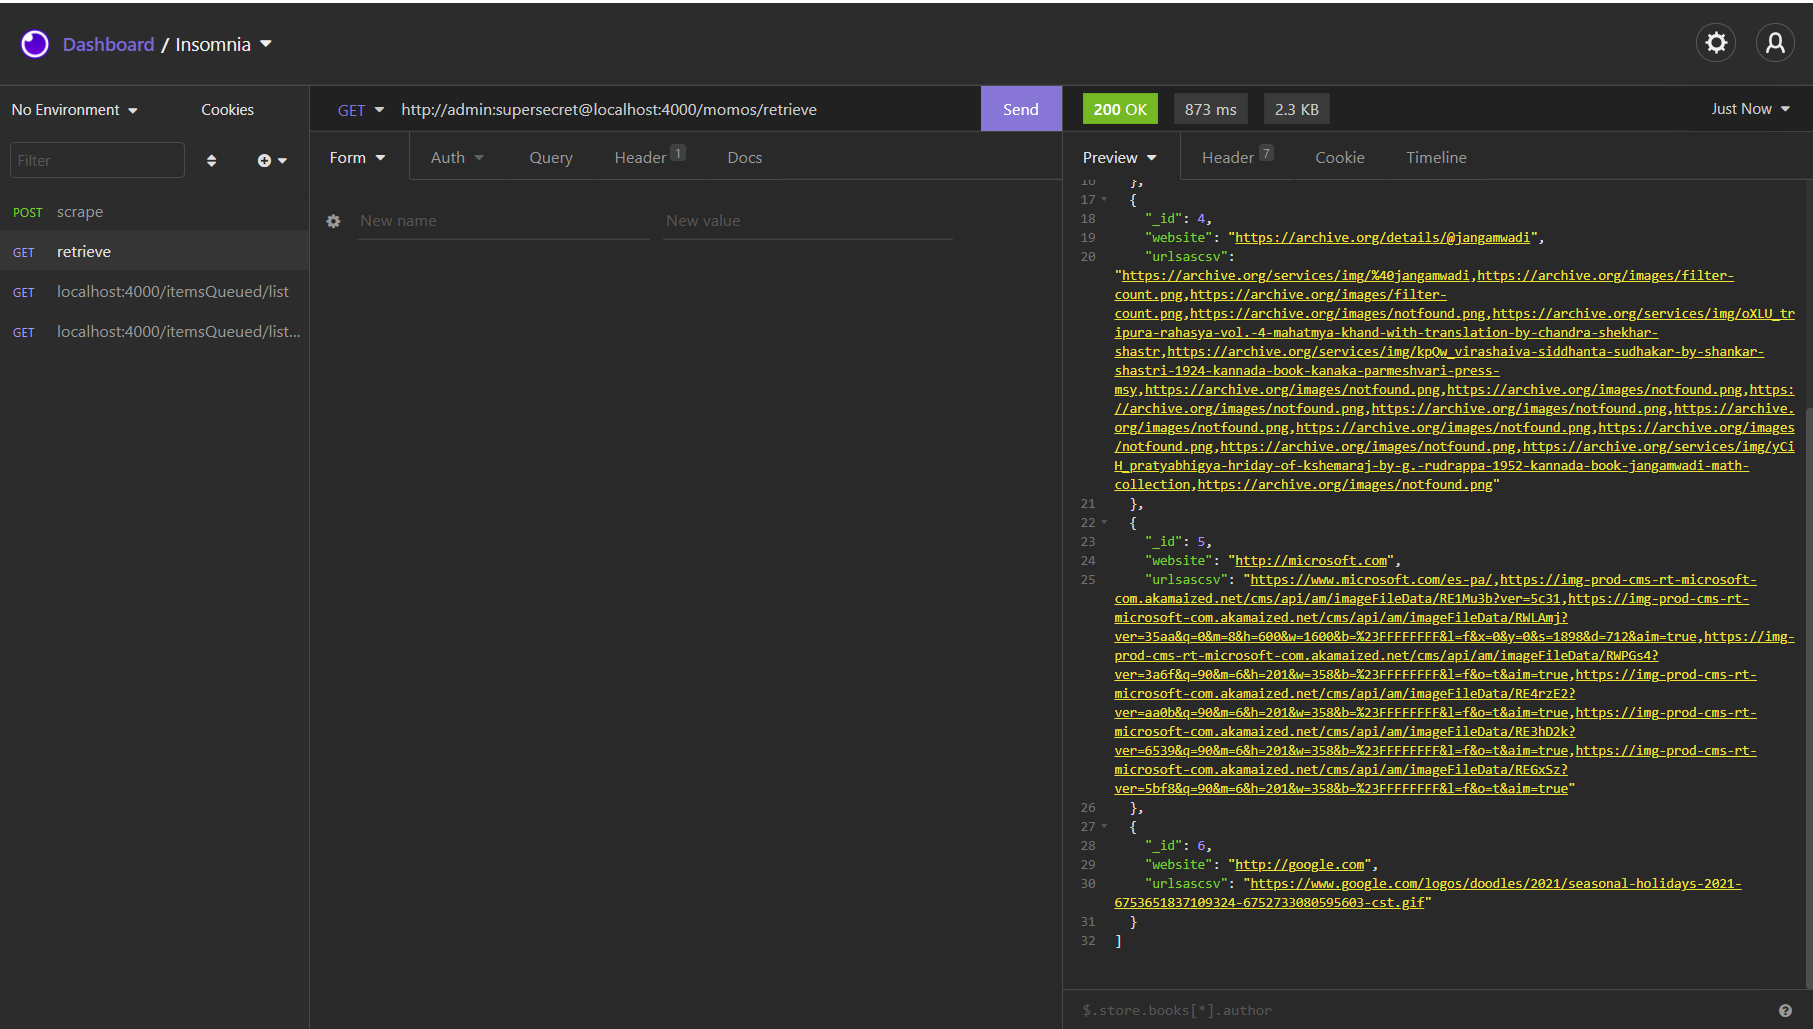
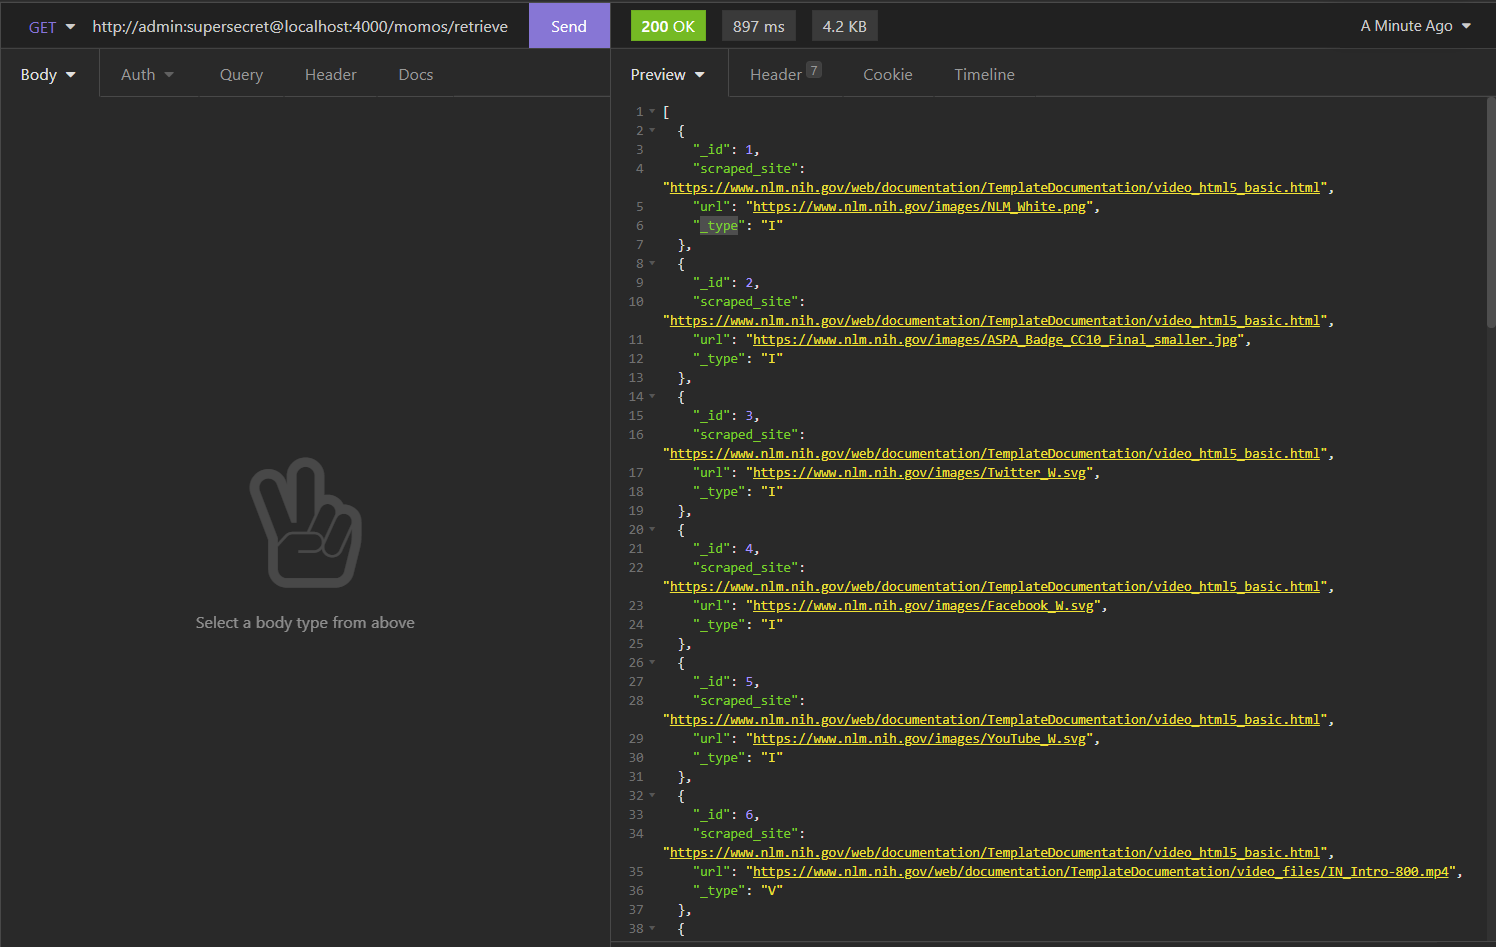
README

diff --git a/README.md b/README.md
@@ -1,9 +1,30 @@
-Media Scraper
-- Create an API which will accept an array for Web URL in the request Body.X
-- Add Basic Server Auth Middleware.X
-- Add Middleware for Logging and Error Handling.X
+#### NodeJS Backend
+https://github.com/eGangotri/momo_backend
+
+#### React Frontend
+https://github.com/eGangotri/momo_react_frontend
+
+
+
+#### Image Gallery with Search Text Filtering
+<img src='https://github.com/eGangotri/momo_backend/blob/master/src/imageGalleryWithFiltering.PNG?raw=true)' />
+
+#### Image Gallery with Type Filtering
+<img src='https://github.com/eGangotri/momo_backend/blob/master/src/imageGalleryWithVideoFiltering.PNG?raw=true)' />
+
+#### Retrieve
+<img src='https://github.com/eGangotri/momo_backend/blob/master/src/retrieve.png?raw=true)' />
+
+
+#### Scrape
+<img src='https://github.com/eGangotri/momo_backend/blob/master/src/scrape.PNG?raw=true)' />
+
+#### Media Scraper
+- Create an API which will accept an array for Web URL in the request Body.
+- Add Basic Server Auth Middleware.
+- Add Middleware for Logging and Error Handling.
 - Scrap Image and Video URLs for requested Web URL's.
-- Store All Data into any SQL database.(elephantsql/indicjournals2)X
+- Store All Data into any SQL database.(elephantsql/indicjournals2)
 - Create a simple web page for showing all the Images and Video's.
 - Paginate front-end API and we can filter data based upon type and search text.
 - Use Node.js for backend and React.js for front-end.
